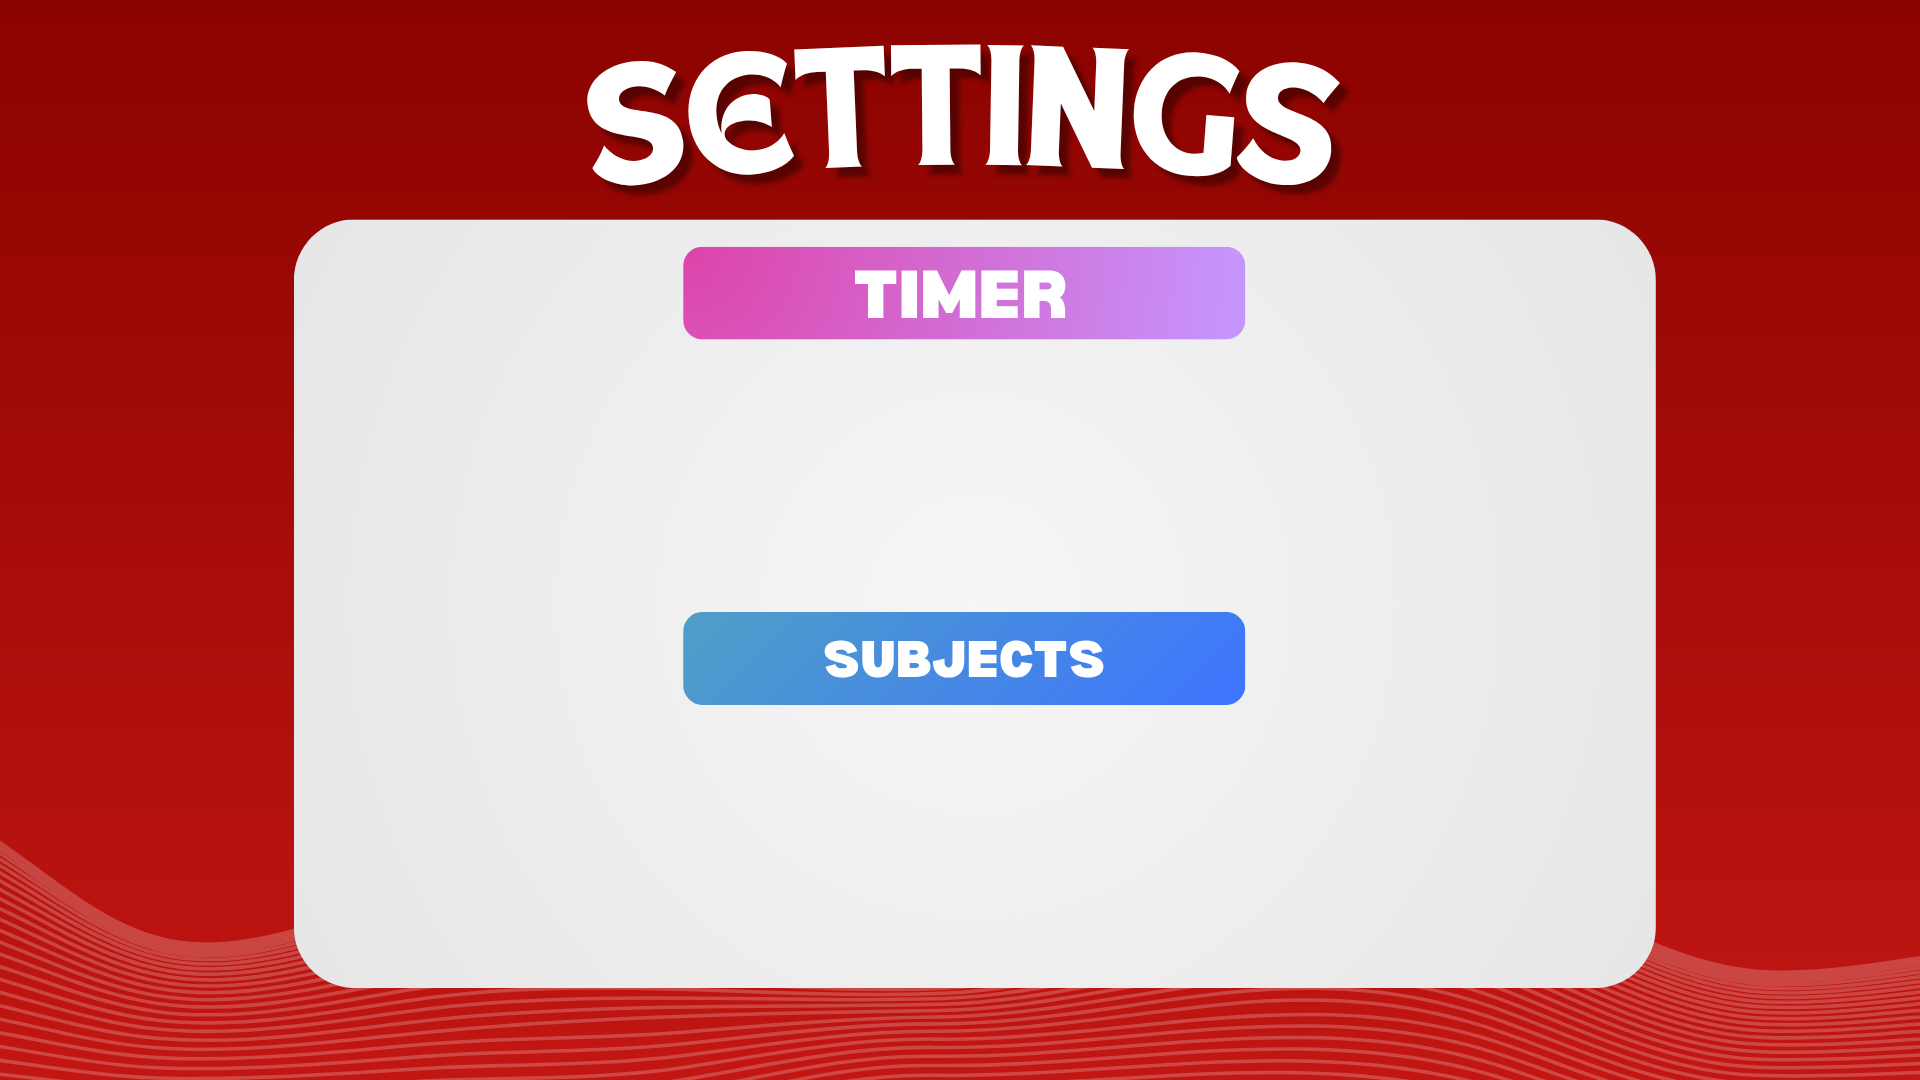
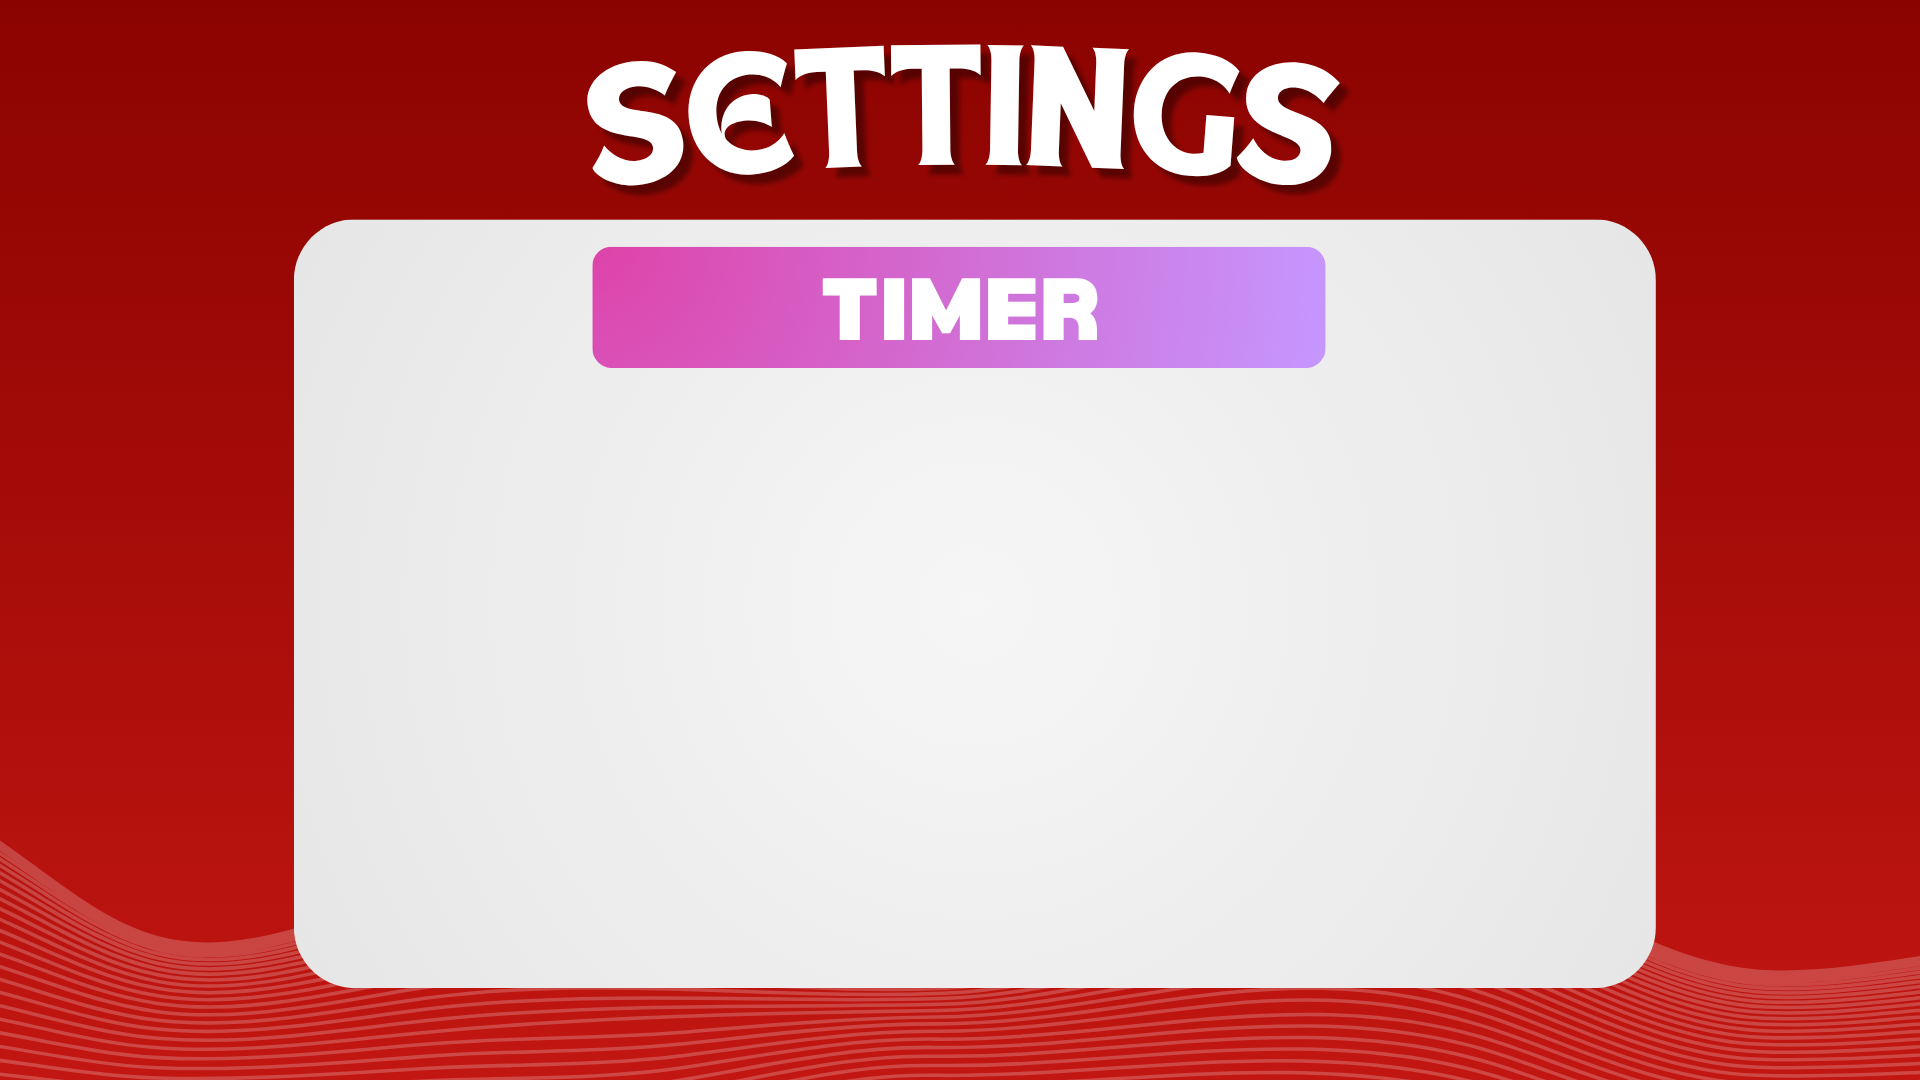
Edited settings page

Changed region(s): [[0.2812, 0.2139, 0.6875, 0.3667], [0.3438, 0.55, 0.6562, 0.6722]]

diff --git a/main.py b/main.py
@@ -610,7 +610,7 @@ class TasksPage:
         self.tasks_list.place(anchor="center", relx=0.52, rely=0.42)
 
         self.tasks_scrollbar = Scrollbar(self.studi_frame, highlightcolor="red")
-        self.tasks_scrollbar.place(relx=0.9, rely=0.225, relheight=0.4)
+        self.tasks_scrollbar.place(relx=0.7679, rely=0.225, relheight=0.4)
 
         self.tasks_list.config(yscrollcommand=self.tasks_scrollbar.set)
         self.tasks_scrollbar.config(command=self.tasks_list.yview)
@@ -620,25 +620,35 @@ class TasksPage:
             text="SAVE",
             font=('Gaco Strong Demo', 50),
             text_color="white",
-            fg_color="#cf7908",
+            fg_color="#e07f00",
             width=300,
             height=300,
             border_spacing=6,
             border_width=-5,
-            hover_color="#9c5b06",
+            hover_color="#a35e03",
             command=self.save_list
         )
         self.save_button.place(relx=0.05, rely=0.20)
 
         self.help_text = Label(
             self.studi_frame,
-            text = "Enter your subject as the file name",
-            font = ('Mont Heavy DEMO',12),
-            bg = "#cf7908",
+            text = "Enter your subject",
+            font = ('Mont Heavy DEMO',22),
+            bg = "#b56904",
             fg = "black"
         )
-        self.help_text.place(relx=0.053,rely=0.2)
-        pywinstyles.set_opacity(self.help_text,color = "#cf7908")
+        self.help_text.place(relx=0.058,rely=0.38)
+        pywinstyles.set_opacity(self.help_text,color = "#b56904")
+
+        self.help_text2 = Label(
+            self.studi_frame,
+            text = "as the file name",
+            font = ('Mont Heavy DEMO',22),
+            bg = "#b56904",
+            fg = "black"
+        )
+        self.help_text2.place(relx=0.066,rely=0.412)
+        pywinstyles.set_opacity(self.help_text2,color = "#b56904")
 
         self.open_button = customtkinter.CTkButton(
             self.studi_frame,
@@ -663,7 +673,7 @@ class TasksPage:
         if task.strip() == "":
             pass
         else:
-            self.tasks_list.insert(END,task)
+            self.tasks_list.insert(END,"• " + task)
             self.enter_tasks.delete(0,END)
 
     def edit_task(self):
@@ -787,168 +797,28 @@ class SettingsPage:
                                  borderwidth=0)  # Creates a label, which holds the background image
         self.image_label.place(relwidth=1, relheight=1)  # Ensures that the label/image fits the entire screen
 
-        self.timer_image = Image.open("Timer.png")
-        self.timer_image_tk = ImageTk.PhotoImage(self.timer_image)
-
-        self.tasks_image = Image.open("Tasks.png")
-        self.tasks_image_tk = ImageTk.PhotoImage(self.tasks_image)
-
-        self.settings_image = Image.open("Settings.png")
-        self.settings_image_tk = ImageTk.PhotoImage(self.settings_image)
-
         self.exit_image = Image.open("Exit.png")
         self.exit_image_Tk = ImageTk.PhotoImage(self.exit_image)
 
-        self.subject_1_text = customtkinter.CTkLabel(
+        self.timer_text = customtkinter.CTkLabel(
             self.studi_frame,
-            text="Subject 1",
-            font = ('Mont Heavy DEMO',35),
-            fg_color = "#ebebeb"
-            )
-        self.subject_1_text.place(relx=0.2,rely=0.69)
-        pywinstyles.set_opacity(self.subject_1_text, color = "#ebebeb")
-        self.subject_1_entry = customtkinter.CTkEntry(
-            self.studi_frame,
-            placeholder_text="Enter Subject 1",
-            font = ("Mont Heavy DEMO", 23),
-            width = 225,
-            height = 55,
-            border_width=0,
-            fg_color="#c7c7c7"
+            text = "Timer",
+            text_color="black",
+            font=("Mont Heavy DEMO", 38),
+            fg_color="#f6f6f6"
         )
-        self.subject_1_entry.place(relx = 0.1835, rely=0.76)
-        self.subject_1_button = customtkinter.CTkButton(
+        self.timer_text.place(relx=0.47,rely=0.38)
+        self.timer_entry = customtkinter.CTkEntry(
             self.studi_frame,
-            text = "APPLY",
-            corner_radius=40,
-            font = ("Mont Heavy DEMO", 30),
-            fg_color="#56b873",
-            hover_color="#468c5b",
+            placeholder_text="TIMER LENGTH (in minutes)",
+            font=("Mont Heavy DEMO", 28),
+            width = 380,
+            height=65,
+            fg_color= "#c7c7c7",
+            text_color="black",
             border_width=0,
-            command = self.subject_1_add
         )
-        self.subject_1_button.place(relx=0.2,rely=0.83)
-
-        self.subject_2_text = customtkinter.CTkLabel(
-            self.studi_frame,
-            text="Subject 2",
-            font = ('Mont Heavy DEMO',35),
-            fg_color = "#ebebeb"
-            )
-        self.subject_2_text.place(relx=0.33,rely=0.69)
-        pywinstyles.set_opacity(self.subject_2_text, color = "#ebebeb")
-        self.subject_2_entry = customtkinter.CTkEntry(
-            self.studi_frame,
-            placeholder_text="Enter Subject 2",
-            font=("Mont Heavy DEMO", 23),
-            width=225,
-            height=55,
-            border_width=0,
-            fg_color="#c7c7c7"
-        )
-        self.subject_2_entry.place(relx=0.3135, rely=0.76)
-        self.subject_2_button = customtkinter.CTkButton(
-            self.studi_frame,
-            text="APPLY",
-            corner_radius=40,
-            font=("Mont Heavy DEMO", 30),
-            fg_color="#56b873",
-            hover_color="#468c5b",
-            border_width=0,
-            command=self.subject_2_add
-        )
-        self.subject_2_button.place(relx=0.335, rely=0.83)
-
-        self.subject_3_text = customtkinter.CTkLabel(
-            self.studi_frame,
-            text="Subject 3",
-            font = ('Mont Heavy DEMO',35),
-            fg_color = "#ebebeb"
-            )
-        self.subject_3_text.place(relx=0.46,rely=0.69)
-        pywinstyles.set_opacity(self.subject_3_text, color = "#ebebeb")
-        self.subject_3_entry = customtkinter.CTkEntry(
-            self.studi_frame,
-            placeholder_text="Enter Subject 3",
-            font=("Mont Heavy DEMO", 23),
-            width=225,
-            height=55,
-            border_width=0,
-            fg_color="#c7c7c7"
-        )
-        self.subject_3_entry.place(relx=0.4435, rely=0.76)
-        self.subject_3_button = customtkinter.CTkButton(
-            self.studi_frame,
-            text="APPLY",
-            corner_radius=40,
-            font=("Mont Heavy DEMO", 30),
-            fg_color="#56b873",
-            hover_color="#468c5b",
-            border_width=0,
-            command=self.subject_3_add
-        )
-        self.subject_3_button.place(relx=0.465, rely=0.83)
-
-        self.subject_4_text = customtkinter.CTkLabel(
-            self.studi_frame,
-            text="Subject 4",
-            font = ('Mont Heavy DEMO',35),
-            fg_color = "#ebebeb"
-            )
-        self.subject_4_text.place(relx=0.59,rely=0.69)
-        pywinstyles.set_opacity(self.subject_4_text, color = "#ebebeb")
-        self.subject_4_entry = customtkinter.CTkEntry(
-            self.studi_frame,
-            placeholder_text="Enter Subject 3",
-            font=("Mont Heavy DEMO", 23),
-            width=225,
-            height=55,
-            border_width=0,
-            fg_color="#c7c7c7"
-        )
-        self.subject_4_entry.place(relx=0.577, rely=0.76)
-        self.subject_4_button = customtkinter.CTkButton(
-            self.studi_frame,
-            text="APPLY",
-            corner_radius=40,
-            font=("Mont Heavy DEMO", 30),
-            fg_color="#56b873",
-            hover_color="#468c5b",
-            border_width=0,
-            command=self.subject_4_add
-        )
-        self.subject_4_button.place(relx=0.598, rely=0.83)
-
-        self.subject_5_text = customtkinter.CTkLabel(
-            self.studi_frame,
-            text="Subject 5",
-            font = ('Mont Heavy DEMO',35),
-            fg_color = "#ebebeb"
-            )
-        self.subject_5_text.place(relx=0.72,rely=0.69)
-        pywinstyles.set_opacity(self.subject_5_text, color = "#ebebeb")
-        self.subject_5_entry = customtkinter.CTkEntry(
-            self.studi_frame,
-            placeholder_text="Enter Subject 3",
-            font=("Mont Heavy DEMO", 23),
-            width=225,
-            height=55,
-            border_width=0,
-            fg_color="#c7c7c7"
-        )
-        self.subject_5_entry.place(relx=0.705, rely=0.76)
-        self.subject_5_button = customtkinter.CTkButton(
-            self.studi_frame,
-            text="APPLY",
-            corner_radius=40,
-            font=("Mont Heavy DEMO", 30),
-            fg_color="#56b873",
-            hover_color="#468c5b",
-            border_width=0,
-            command=self.subject_5_add
-
-        )
-        self.subject_5_button.place(relx=0.7285, rely=0.83)
+        self.timer_entry.place(relx=0.4,rely=0.44)
 
         self.return_button = customtkinter.CTkButton(
             self.studi_frame,
@@ -984,23 +854,6 @@ class SettingsPage:
             print("TASKS")
             self.studi_frame.destroy()
             TasksPage(root)
-
-    def subject_1_add(self):
-        global subject_1
-        subject_1 = self.subject_1_entry.get()
-
-    def subject_2_add(self):
-        global subject_2
-        subject_2 = self.subject_2_entry.get()
-    def subject_3_add(self):
-        global subject_3
-        subject_3 = self.subject_3_entry.get()
-    def subject_4_add(self):
-        global subject_4
-        subject_4 = self.subject_4_entry.get()
-    def subject_5_add(self):
-        global subject_5
-        subject_5 = self.subject_5_entry.get()
 
     def exit_program(self):
         self.studi_frame.destroy()
